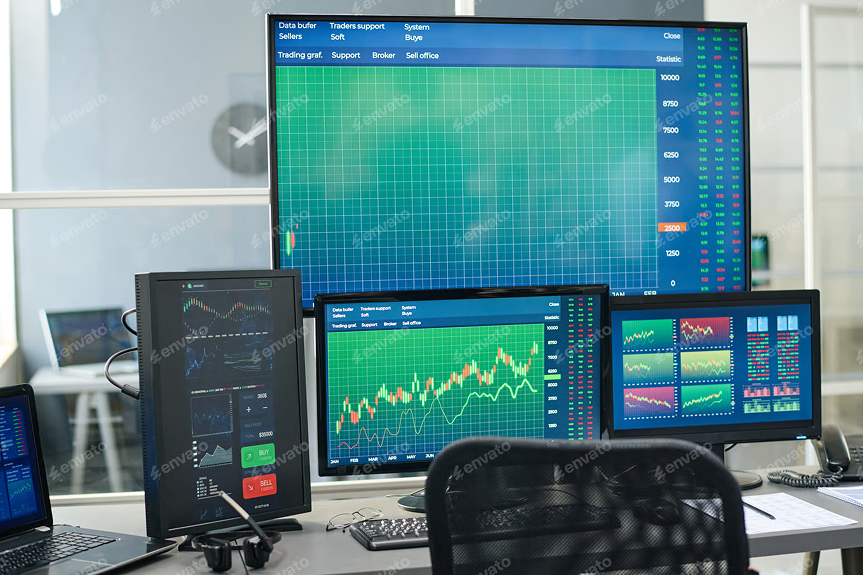
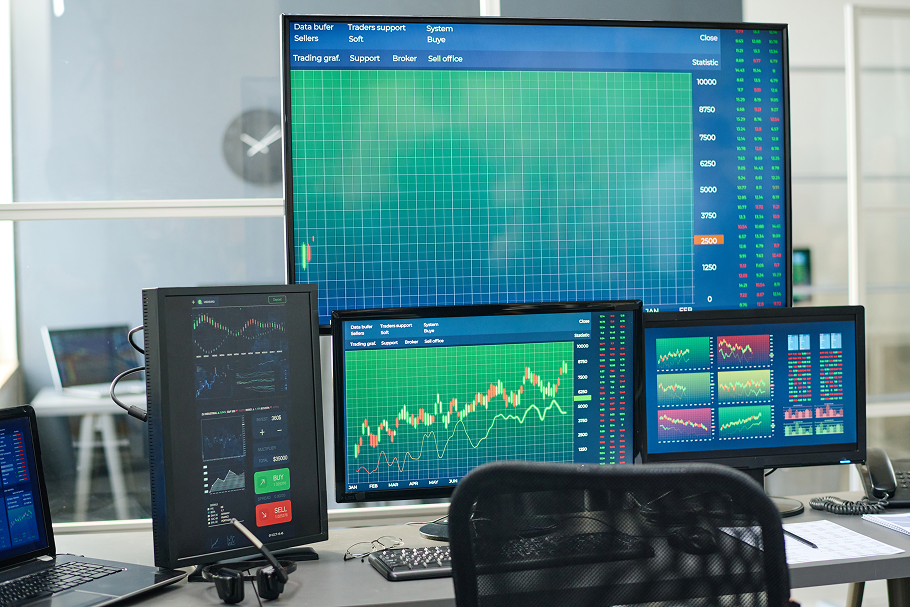
Update product imagery, mobile layout, and audience proof copy.
Refresh solution and device images, widen software product cards on mobile, update BRT proof highlight text, and rename contact locations heading.

diff --git a/src/components/products/ProductsContent.tsx b/src/components/products/ProductsContent.tsx
@@ -687,6 +687,22 @@ export default function ProductsContent() {
             .product-sticky-slot:last-child {
               margin-bottom: 0;
             }
+            .products-software-section {
+              padding-left: 20px !important;
+              padding-right: 20px !important;
+            }
+            .product-stack-card-inner {
+              padding: clamp(20px, 4.5vw, 28px);
+            }
+          }
+          @media (max-width: 520px) {
+            .products-software-section {
+              padding-left: 16px !important;
+              padding-right: 16px !important;
+            }
+            .product-stack-card-inner {
+              padding: 18px 16px;
+            }
           }
         `,
         }}
@@ -694,6 +710,7 @@ export default function ProductsContent() {
 
       <section
         id="software-products"
+        className="products-software-section"
         style={{
           background: "linear-gradient(180deg, #fafbfd 0%, #eef2f8 42%, #f7f9fc 100%)",
           padding: "clamp(72px, 12vw, 120px) 48px",

diff --git a/src/data/audienceLandings.ts b/src/data/audienceLandings.ts
@@ -92,8 +92,8 @@ export const audienceLandingsBySlug: Record<string, AudienceLandingDoc> = {
         label: "Daily Riders Supported",
       },
       {
-        value: "Peshawar BRT",
-        label: "Live BRT Deployment",
+        value: "Real-World BRT Operations",
+        label: "Proven under daily ridership demand",
       },
     ],
     proofQuote:

diff --git a/src/components/contact/ContactPageContent.tsx b/src/components/contact/ContactPageContent.tsx
@@ -169,7 +169,7 @@ const ContactPageContent = () => {
                 margin: 0,
               }}
             >
-              Company addresses
+              Company Locations
             </h3>
           </div>
 